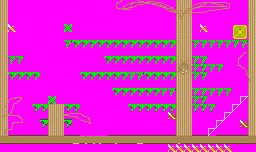
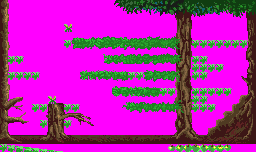
Level 11 started...

diff --git a/arm9/source/mmll.h b/arm9/source/mmll.h
@@ -54,6 +54,7 @@
 #include "../build/Background08.h"
 #include "../build/Background09.h"
 #include "../build/Background10.h"
+#include "../build/Background11.h"
 #include "../build/Background21.h"
 #include "../build/Background22.h"
 #include "../build/Background23.h"
@@ -217,7 +218,7 @@
 
 @ Levels
 
-#define LEVEL_COUNT					10
+#define LEVEL_COUNT					11
 
 @ Fade values
 
